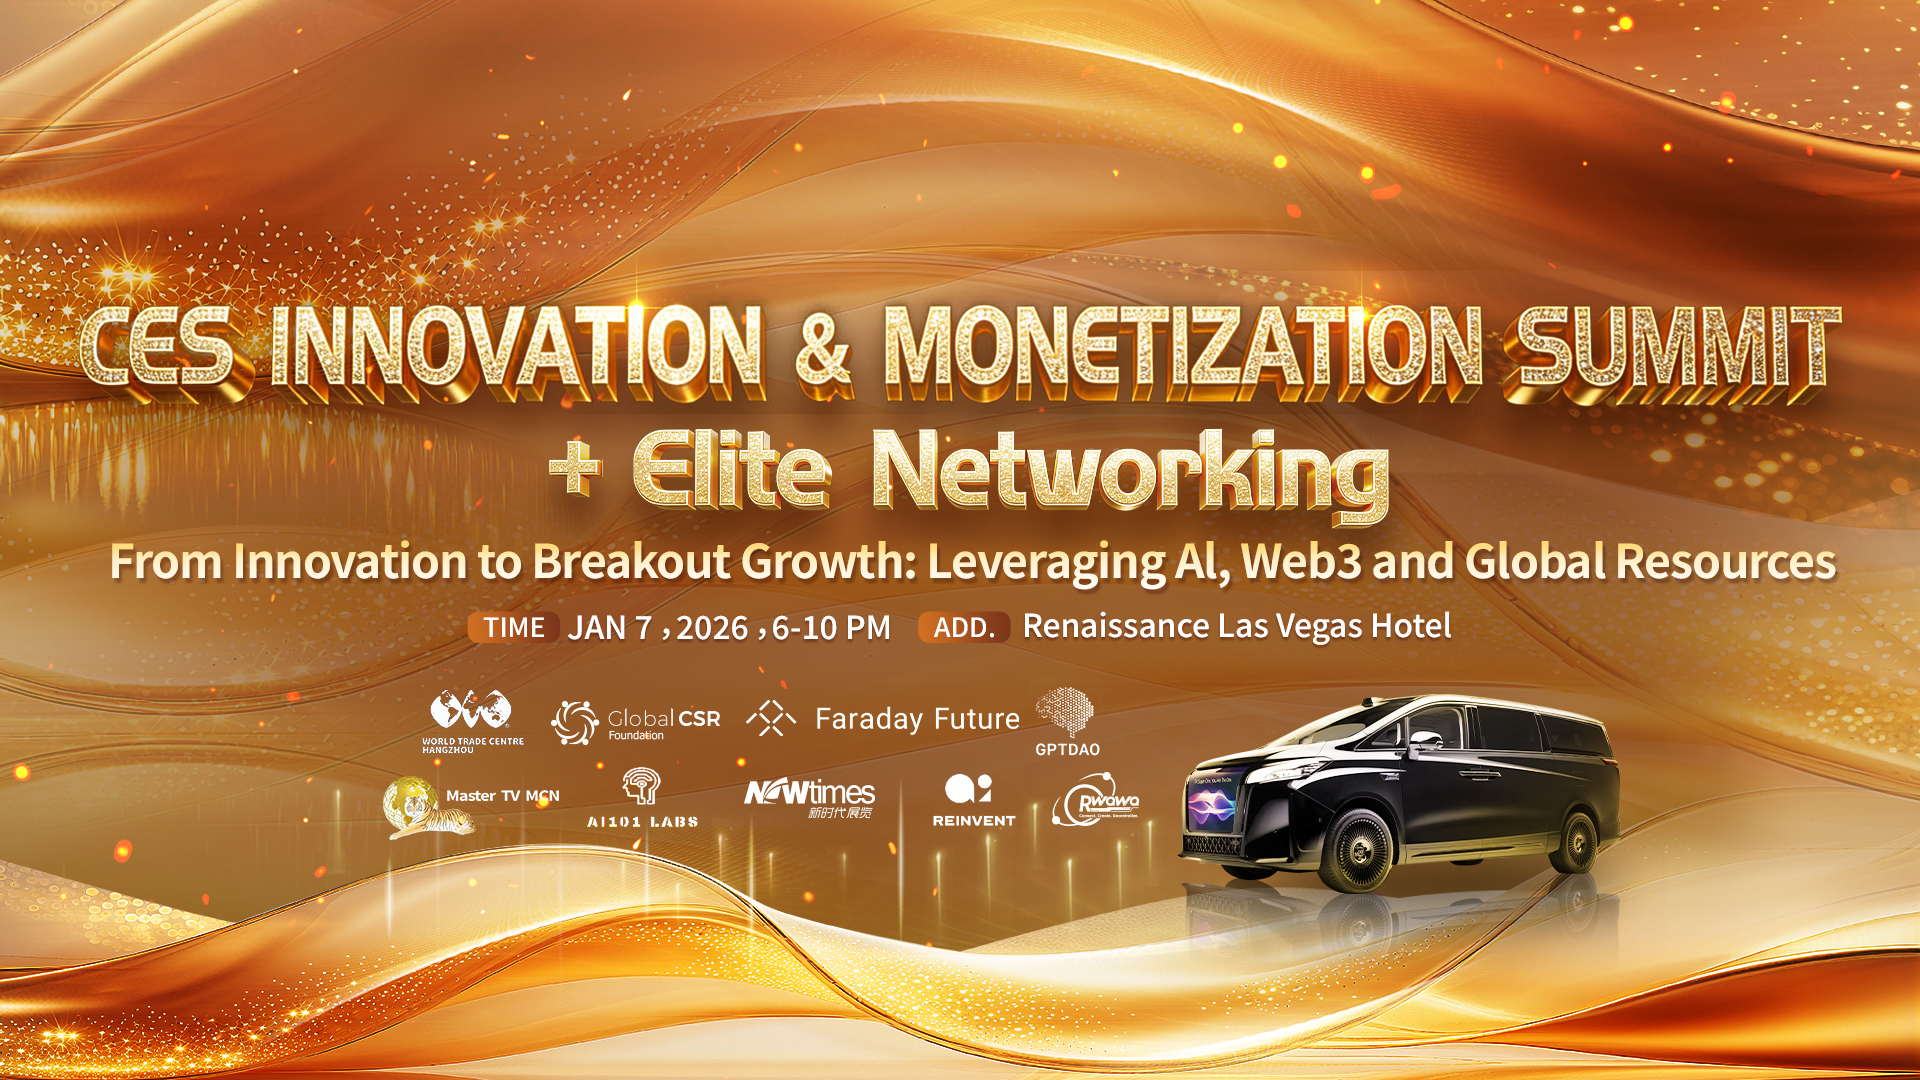
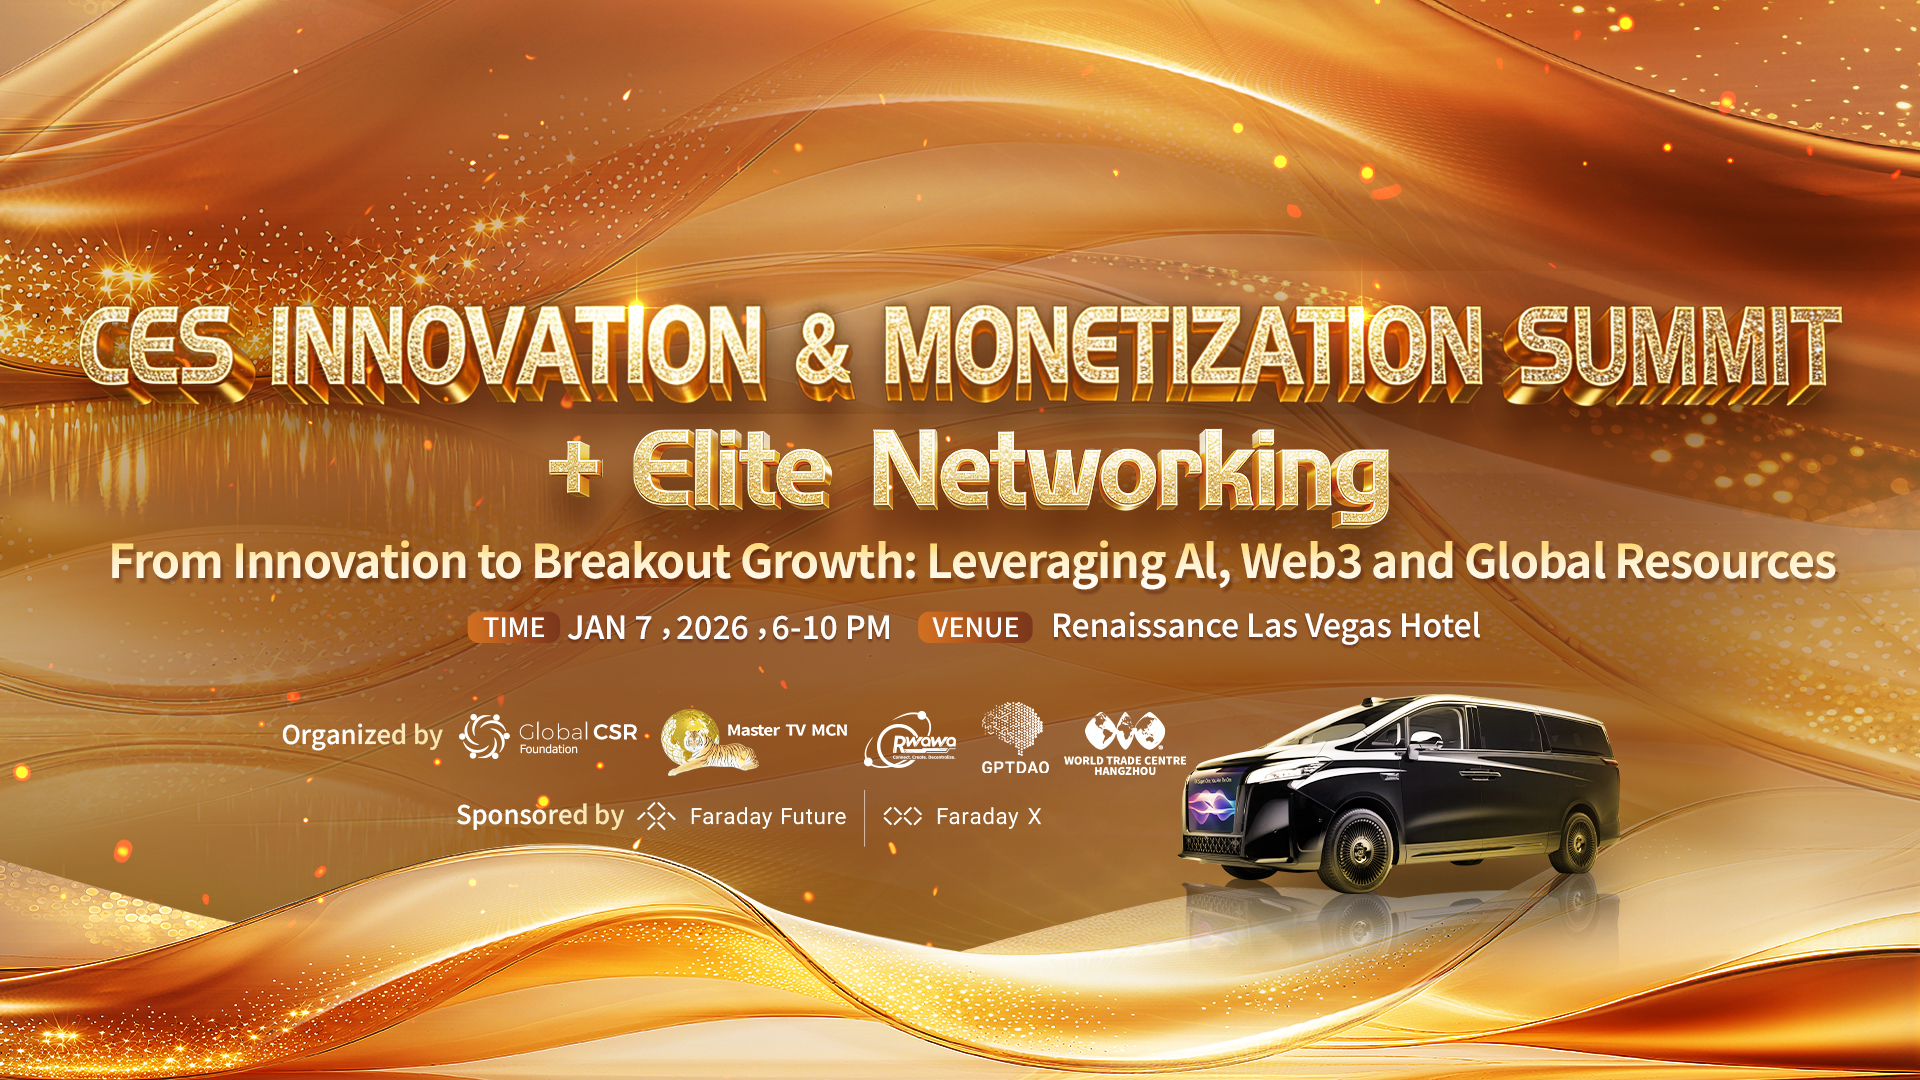
Add new speaker profile for John Chen and update background images for improved quality
- Introduced John Chen to the speaker lineup with his title, biography, and image for enhanced representation.
- Updated background images for both desktop and mobile versions to improve visual quality and consistency.

diff --git a/components/Speakers.tsx b/components/Speakers.tsx
@@ -236,6 +236,14 @@ const Speakers: React.FC<Props> = ({ t, lang }) => {
       img: '/images/tammy-sun.png' 
     },
     { 
+      name: 'John Chen', 
+      title: lang === 'zh' ? 'AIU.WIKI 创始人｜前中国社会科学院研究员' : 'Founder, AIU.WIKI | Former Researcher, Chinese Academy of Social Sciences', 
+      bio: lang === 'zh'
+        ? '将在会议介绍发明，题目：64进制专利解决AI大模型的2次方魔咒。'
+        : 'Will present his invention at the conference: Base-64 Patent Solves the Power-of-Two Curse in AI Large Models.',
+      img: '/images/JOHN CHEN.jpg' 
+    },
+    { 
       name: lang === 'zh' ? '陈嘉海' : 'Harrison Chen', 
       title: lang === 'zh' ? 'PurpleCloudAI联合创始人' : 'Co-founder, PurpleCloudAI', 
       bio: lang === 'zh'
